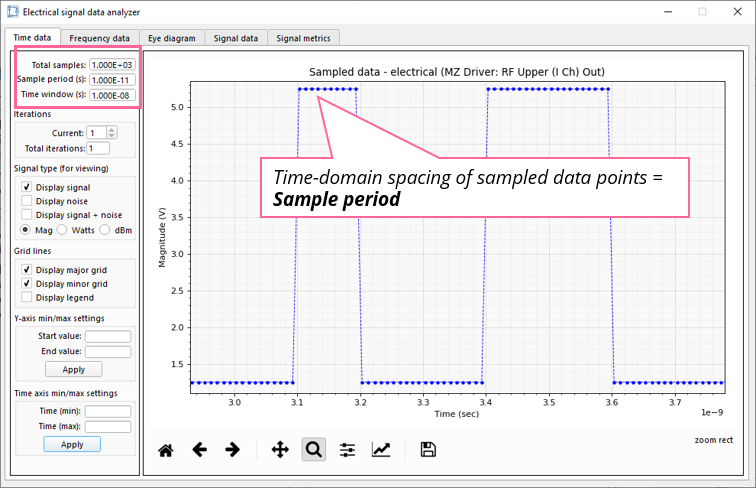
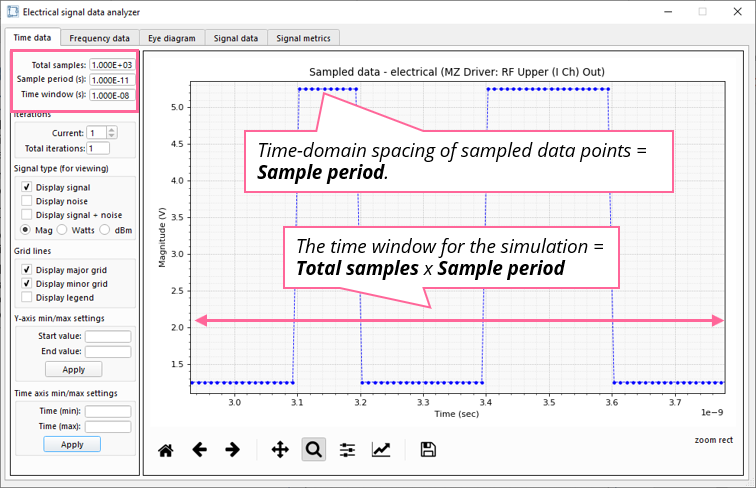
Add files via upload

Changed region(s): [[0.2434, 0.1844, 0.9735, 0.6762], [0.0, 0.0922, 0.213, 0.2459]]

diff --git a/documentation_source/syslab_documents/MatlabEngineAPI.rst b/documentation_source/syslab_documents/MatlabEngineAPI.rst
@@ -1,0 +1,160 @@
+.. _matlab-api-label:
+
+.. |reg|    unicode:: U+000AE .. REGISTERED SIGN
+
+MATLAB engine API for Python
+============================
+
+As SystemLab|Design is based on the Python programming language, it is possible to call
+MathWorks **MATLAB** |reg| as a computational engine from a functional block script. After 
+creating an instance of the *MatlabEngine* class you can call MATLAB functions and algorithms 
+and interchange data between the Python script and MATLAB workspace.
+
+The following procedure (for Windows 10) describes how to setup and run the **MATLAB** |reg| **Engine API for Python** |reg| . 
+
+  .. important:: 
+    
+   To run the **MATLAB Engine API for Python** you must have a supported version 
+   of MATLAB R2014A or later running on the same operating system as where SystemLab|Design 
+   has been installed.
+   
+Additional information on the use of this feature and its installation can be found on the 
+MathWorks |reg| web site: `Calling MATLAB from Python 
+<https://www.mathworks.com/help/matlab/matlab-engine-for-python.html?s_tid=CRUX_lftnav>`_.
+
+**How to install the MATLAB Engine API for Python for SystemLab|Design**
+
+1.  Launch the Windows command prompt window by entering in the search field from the taskbar
+    **command** or **cmd** 
+2.  Below the **Command Prompt** select **Run as administrator**.
+
+  .. image:: Matlab_API_1.png
+    :align: center
+    :width: 400px
+	
+3.  From the command prompt type: ::
+
+        cd "C:\path_to_matlab_root_dir\extern\engines\python"
+		
+    *Note: "path_to_matlab_root_dir" is for example "C:\\Program Files\\MATLAB\\R2019a".*
+ 
+4.  From the command prompt type: ::
+
+        python setup.py install --prefix="C:\path_to_systemlab_application\systemlab_design"
+		
+    *Note: "path_to_systemlab_application" is the location where the "systemlab_design" folder
+    is installed on your computer.*
+
+5.  To verify that the MATLAB API was correctly installed check that there is a new
+    folder *matlab* under the *...\\systemlab_design\\Lib\\site-packages* folder.
+
+  .. image:: Matlab_API_2.png
+    :align: center
+    :width: 500px
+
+6.  Select the folder *matlab* and drag and drop it to the folder *systemlab_design*. *[This step is 
+    important as it will ensure that the matlab.engine can be located and successfully imported 
+    from any functional block script.]*
+
+  .. image:: Matlab_API_3.png
+    :align: center
+    :width: 500px
+
+**Test that the MATLAB engine can be called from a functional block script**
+
+7.  Launch a new application of SystemLab|Design by double left-clicking on the *SystemLab-Design.exe* 
+    executable file.
+8.  Add a new functional block to the default project scene with the following settings:
+    
+    a. Add one port to the functional block with the following settings: Port name: *'Out'*, Cardinal point: **East**, 
+       Direction: **Out**, Signal type: **Electrical** (remember to click **Apply** before saving and closing the 
+       **Add ports** dialog).
+    b. Functional block name/ID: **MATLAB Test**
+    c. Script module name: **Matlab_Run**
+    
+9.  Open a session of **SciTE** (or equivalent) by selecting **Edit/Open code/script editor**.
+10. Within the editing panel (under "1 Untitled") enter the following lines of code: ::
+    
+		import numpy as np
+		import config
+		import matlab.engine
+		
+		def run(input_signal_data, parameters_input, settings):
+	  
+			'''==PROJECT SETTINGS==================================================='''
+			module_name = 'MATLAB Test'
+			n = settings['num_samples']
+			n = int(round(n))
+			time = settings['time_window']
+			fs = settings['sampling_rate']
+			carrier = 0
+			sig_type = 'Electrical'
+			parameters_input = []
+
+			'''==CALCULATIONS======================================================='''   
+			time_array = np.linspace(0, time, n)
+			noise_array = np.zeros(n)   
+			
+			if config.sim_status_win_enabled == True:
+				config.sim_status_win.textEdit.append('Starting MATLAB Engine... ')
+				config.app.processEvents()
+			eng = matlab.engine.start_matlab()
+			sig_array = matlab.double(eng.ones(1,n))
+			sig_array = np.asarray(sig_array[0])
+			#eng.desktop(nargout=0)
+
+			if config.sim_status_win_enabled == True:
+				config.sim_status_win.textEdit.append('Quiting MATLAB Engine... ')
+				config.app.processEvents()
+			eng.quit()
+
+			matlab_results = []
+
+			'''==RETURN (Output Signals, Parameters, Results)=================================='''
+			
+			electrical_signal = [1, sig_type, carrier, fs, time_array, sig_array, noise_array]
+			return ([electrical_signal], parameters_input, matlab_results)
+
+  In the code above we initiate a new MATLAB process by calling **eng = matlab.engine.start_matlab()**. 
+  We then build an array of ones within the MATLAB workspace and access this array using the 
+  command **sig_array = matlab.double(eng.ones(1,n))**. To ensure that the array matches 
+  the **Numpy** array format we use the command **sig_array = np.asarray(sig_array[0])** 
+  to convert the Python list to a **Numpy** array. The data from this array is then returned 
+  to the simulation algorithm and allocated to the output port of the functional block.
+
+11. Save the file as *Matlab_Run.py* within the folder *systemlab_design* (make sure to include the suffix 
+    .py in the **File Name** field when saving) and close the session of SciTE.
+12. Start running a simulation [*The simulation should complete as shown below*]
+
+  .. image:: Matlab_API_4.png
+    :align: center
+    :width: 500px
+	
+13. Double left click on the output port of **MATLAB Test** to verify that an output signal is
+    created as shown below:
+	
+  .. image:: Matlab_API_5.png
+    :align: center
+    :width: 500px
+|
+
+  .. admonition:: About the MATLAB engine API for Python...
+  
+	As shown partially in this example, you can call any MATLAB function or a custom script (m-file) 
+	directly from the functional block Python script. Data arguments can be passed from Python 
+	to the MATLAB engine (in this example we have used the number of samples 'n') and returned 
+	by declaring local variables in Python (in this example we used 'sig_array'). Also, any data types 
+	within the MATLAB workspace can be accessed through the command **a = eng.workspace('data')** where 
+	'a' is the local variable in Python and 'data' is a data variable located within the MATLAB workspace. 
+	 
+	Further information on how to exhange data between Python and MATLAB can be found on the 
+	MathWorks |reg| web site: `Calling MATLAB from Python 
+	<https://www.mathworks.com/help/matlab/matlab-engine-for-python.html?s_tid=CRUX_lftnav>`_.
+	
+	
+  .. important:: 
+    
+	NOTE: To initiate a MATLAB process from within a functional block script the **import matlab.engine** 
+	statement MUST be included at the beginning of the script. Also, once calculations linked to the 
+	MATLAB process have been completed, the active session of the MATLAB engine MUST be closed by using the **eng.quit()** 
+	command. If the process is not terminated, the functional block script will remain in a suspended state!

diff --git a/documentation_source/syslab_documents/Installation.rst b/documentation_source/syslab_documents/Installation.rst
@@ -17,8 +17,8 @@ libraries for:
 
 To install and run SystemLab|Design, complete the following steps:
 
-1. Download the latest version of SystemLab|Design from: 
-   https://systemlabdesign.com/systemlab_design/systemlab_design_1902.zip
+1. Download the latest version of SystemLab|Design from the following link:
+   `SystemLab|Design 19.02 <https://systemlabdesign.com/systemlab_design/systemlab_design_1902.zip>`_
 
   .. note::   
     If prompted by your web browser, select the "Save file" option.
@@ -47,6 +47,17 @@ To install and run SystemLab|Design, complete the following steps:
     
 5. **Double left-click** on the application file to launch the software (or optionally 
    **right-click + open**).   
+
+  .. tip::
+  
+	To quickly access the SystemLab|Design application for future use, you can create a short-cut to the 
+	*SystemLab-Design.exe* file. To add a short-cut, right-click on the file and select **Create shortcut** from 
+	the pull-down menu. The short-cut application icon can then moved to any other location on your computer.
+	
+	Similarly, you can add a link to the SystemLab-Design executable in the Windows **Start** menu by right-clicking 
+	on the file and selecting **Pin to Start** from the pull-down menu. A tile icon will appear on the **Tiles** panel 
+	of the **Start** menu and can be re-sized and/or moved if needed.
+ 
 6. **Windows Defender SmartScreen** (or similar anti-virus software) will likely initially 
    flag *"SystemLab-Design.exe"* as an unrecognized app (this is normal as it has 
    been downloaded from the internet). Select **More Info** to verify the publisher.
@@ -66,12 +77,12 @@ To install and run SystemLab|Design, complete the following steps:
    certificate, thus verifying the source and integrity of the software. Once the publisher 
    is verified, select **Run anyway** to launch the application. 
    
-   *For further information on digital signature see the section below: About software digital signatures...*. 
+   *For further information on digital signatures see the section below: About software digital signatures...*. 
    **Note**: If the publisher field displays unknown, **we do not recommend** that you launch the 
    application. Please contact us at info@systemlabdesign.com for assistance.
    
   .. note::   
-    When launching SystemLab|Design for the first time there will be an initial delay (~15 seconds) 
+    When launching SystemLab|Design for the first time there will be an initial delay (~10 seconds) 
     before the application appears (Fig 5) (during this time Python compiles the code into bytecode 
     (.pyc files)). After these cached files are built, subsequent instances of the 
     application will load more quickly.

diff --git a/documentation_source/syslab_documents/UnderstandingSimulationSettings.rst b/documentation_source/syslab_documents/UnderstandingSimulationSettings.rst
@@ -39,7 +39,7 @@ data collection) and operate at defined symbols/sec rate(s) (also called
 `baud rate <https://www.electronicdesign.com/communications/what-s-difference-between-bit-rate-and-baud-rate>`_). 
 
 The **Symbol rate** is defined separately from the **Sample rate** but as a general rule, 
-when running communications models, it’s recommended to maintain a **Sample rate** that is 
+when running communication models, it’s recommended to maintain a **Sample rate** that is 
 twice or greater than that of the **Symbol rate**.
 
   .. figure:: Simulation_Settings_1.png
@@ -64,8 +64,11 @@ calculation (1E-11 sec) from the **Simulation settings** tab.
     
     Fig 2: Example view of Time data tab (Electrical signal data viewer)
 
-The inverse of the **Sample period** is the **Sample rate** (set to 1E+11 Hz) and is 
-equivalent to the spacing between the data points in the frequency-domain graph (Fig 3).
+The inverse of the **Sample period** is the **Sample rate** (1E+11 Hz) and is 
+equivalent to the delta between the maximum and minimum x-axis points (or simulation bandwidth) 
+displayed on the frequency-domain graph (Fig 3). The spacing between the frequency 
+points is linked to the inverse of the time window of the simulation. For a fixed sample rate, 
+the longer the simulation time, the tighter the spacing (resolution) between the frequency points.
 
   .. figure:: Simulation_Settings_3.png
     :figclass: align-center

diff --git a/documentation_source/syslab_documents/SignalsLibrary.rst b/documentation_source/syslab_documents/SignalsLibrary.rst
@@ -25,7 +25,7 @@ Optical signal
 The **Optical** signal type can be used to represent an optical analog signal (continuously 
 varying with time) that is either guided (e.g. fiber or waveguide confined) or un-guided 
 (free space - geometric). To model the optical signal in a simulation environment, the 
-slowly varying envelope approximation is used [1]_: 
+slowly varying envelope approximation is used **[Ref 1]**: 
 
 .. math:: E(z,t) = E_{o}(z,t)exp(i(kz-w_{0}t))
 
@@ -123,8 +123,7 @@ The data structure of the analog signal is as follows: ::
     # time_array (1D array): Time samples for the signal
     # amplitude_array (1D array): Sampled amplitude values of the signal
 
-.. [1] Wikipedia contributors, "Slowly varying envelope approximation," Wikipedia, The Free 
-       Encyclopedia, https://en.wikipedia.org/w/index.php?title=Slowly_varying_envelope_approximation&oldid=871400462 
-       (accessed April 3, 2019). 
-
-      
+References
+^^^^^^^^^^
+  
+  **[1]** Wikipedia contributors, "Slowly varying envelope approximation," Wikipedia, The Free Encyclopedia, https://en.wikipedia.org/w/index.php?title=Slowly_varying_envelope_approximation&oldid=871400462 (accessed April 3, 2019).

diff --git a/documentation_source/syslab_documents/RunSimulationsWithFeedback.rst b/documentation_source/syslab_documents/RunSimulationsWithFeedback.rst
@@ -79,7 +79,7 @@ SystemLab|Design.
            
    When **Feedback mode** is enabled for a simulation (feedback_mode == 2), the change in 
    temperature for a defined time span is calculated using the differential equation 
-   *dT/dt = -k(T-Ta)* where k is the cooling rate parameter and Ta is the ambient temp [1]_.
+   *dT/dt = -k(T-Ta)* where k is the cooling rate parameter and Ta is the ambient temp **[Ref 1]**.
    
    The **Feedback segments** setting is used to define the number segments for the simulation 
    iteration. This regulates the time step delta (dt), which is represented numerically 
@@ -110,7 +110,9 @@ SystemLab|Design.
      
   .. image:: Feedback_4.png
      :align: center 
-     :width: 450     
-   
-.. [1] Other differential equations, https://www.ugrad.math.ubc.ca/coursedoc/math100/notes/diffeqs/cool.html
-       (accessed April 26, 2019). 
+     :width: 450   
+
+References
+^^^^^^^^^^
+  
+  **[1]** Other differential equations, https://www.ugrad.math.ubc.ca/coursedoc/math100/notes/diffeqs/cool.html (accessed April 26, 2019).

diff --git a/documentation_source/syslab_documents/CreateDesignProject.rst b/documentation_source/syslab_documents/CreateDesignProject.rst
@@ -102,7 +102,7 @@ generator that is connected to an amplifier) and assemble these into a design pr
 15. Before saving the project, go to the *systemlab_design* main folder and create a new folder 
     called *'gaussian_pulse_generator'*.
     
-  .. warning::
+  .. important::
     If the path which defines the location of a Python script contains empty spaces, the 
     file may not be directly accessible to the script editor. It is thus recommended to remove any blank 
     spaces in your project path definitions (this is why we have added underscores to our 

diff --git a/documentation_source/syslab_documents/QuickStart2.rst b/documentation_source/syslab_documents/QuickStart2.rst
@@ -108,7 +108,7 @@ iterations, data panels, and customized graphs.
     group box). Once these settings have been entered, select the **Apply** button at the 
     bottom of the group box.
 10. Under the **Y-axis min/max settings** group box, set the **Start value** and **End value** 
-to "100" and "-100" and select **Apply**. 
+    to "100" and "-100" and select **Apply**. 
     
     *The graph will be refreshed and should look similar to the plot shown in Fig 5. 
     The Integrate and Dump receiver is called a matched filter in that it is designed to provide 

diff --git a/documentation_source/syslab_documents/FunctionalBlockScripts.rst b/documentation_source/syslab_documents/FunctionalBlockScripts.rst
@@ -1,5 +1,5 @@
 
-Working with Functional block scripts
+Working with Functional block scripts 
 =====================================
 
 How functional block scripts work
